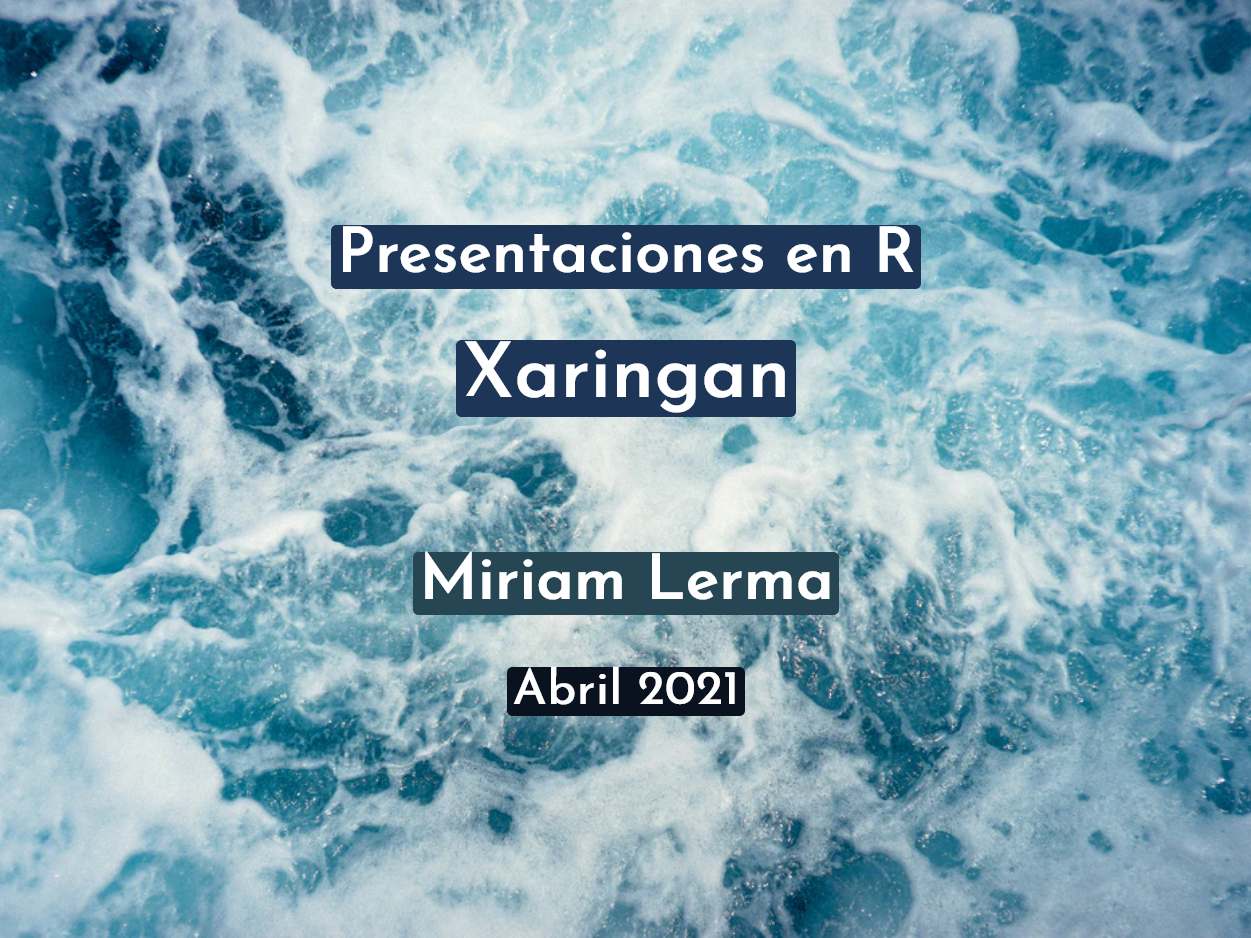
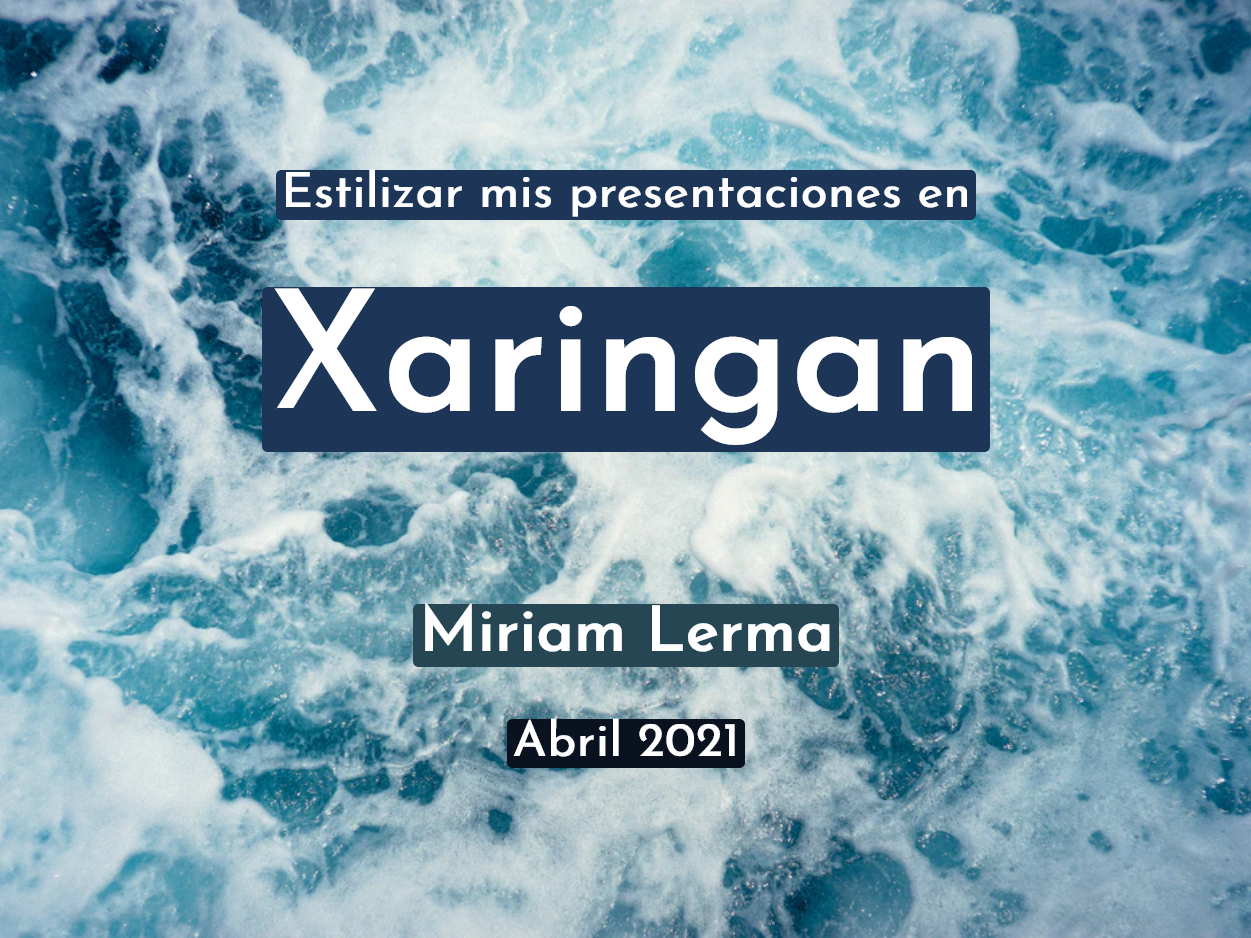
Portadas presentaciones

Changed region(s): [[0.1871, 0.1546, 0.8106, 0.4947], [0.3118, 0.5874, 0.6859, 0.8348]]

diff --git a/Prueba.html b/Prueba.html
@@ -1,0 +1,166 @@
+<!DOCTYPE html>
+<html lang="" xml:lang="">
+  <head>
+    <title>Pingüinos de Adelia</title>
+    <meta charset="utf-8" />
+    <meta name="author" content="Miriam Lerma" />
+    <script src="Prueba_files/header-attrs-2.6/header-attrs.js"></script>
+    <link href="Prueba_files/remark-css-0.0.1/default.css" rel="stylesheet" />
+    <link href="Prueba_files/remark-css-0.0.1/default-fonts.css" rel="stylesheet" />
+  </head>
+  <body>
+    <textarea id="source">
+class: center, middle, inverse, title-slide
+
+# Pingüinos de Adelia
+### Miriam Lerma
+### 22/4/2021
+
+---
+
+class: title-slide, center, middle, inverse
+background-image: url(https://images.unsplash.com/photo-1544817287-d26f7ed1e4d9?ixid=MXwxMjA3fDB8MHxwaG90by1wYWdlfHx8fGVufDB8fHw%3D&amp;ixlib=rb-1.2.1&amp;auto=format&amp;fit=crop&amp;w=750&amp;q=80)
+background-size: cover
+
+
+
+
+
+# ¿Son los machos más pesados que las hembras en pingüinos de Adelia?
+
+---
+class: center
+
+# Mi tabla
+
+
+
+
+&lt;table&gt;
+ &lt;thead&gt;
+  &lt;tr&gt;
+   &lt;th style="text-align:left;"&gt; sexo &lt;/th&gt;
+   &lt;th style="text-align:right;"&gt; peso &lt;/th&gt;
+  &lt;/tr&gt;
+ &lt;/thead&gt;
+&lt;tbody&gt;
+  &lt;tr&gt;
+   &lt;td style="text-align:left;"&gt; hembra &lt;/td&gt;
+   &lt;td style="text-align:right;"&gt; 3368.836 &lt;/td&gt;
+  &lt;/tr&gt;
+  &lt;tr&gt;
+   &lt;td style="text-align:left;"&gt; macho &lt;/td&gt;
+   &lt;td style="text-align:right;"&gt; 4043.493 &lt;/td&gt;
+  &lt;/tr&gt;
+&lt;/tbody&gt;
+&lt;/table&gt;
+
+---
+
+# Mi figura
+
+.center[
+![](Prueba_files/figure-html/unnamed-chunk-4-1.png)&lt;!-- --&gt;
+]
+    </textarea>
+<style data-target="print-only">@media screen {.remark-slide-container{display:block;}.remark-slide-scaler{box-shadow:none;}}</style>
+<script src="https://remarkjs.com/downloads/remark-latest.min.js"></script>
+<script>var slideshow = remark.create();
+if (window.HTMLWidgets) slideshow.on('afterShowSlide', function (slide) {
+  window.dispatchEvent(new Event('resize'));
+});
+(function(d) {
+  var s = d.createElement("style"), r = d.querySelector(".remark-slide-scaler");
+  if (!r) return;
+  s.type = "text/css"; s.innerHTML = "@page {size: " + r.style.width + " " + r.style.height +"; }";
+  d.head.appendChild(s);
+})(document);
+
+(function(d) {
+  var el = d.getElementsByClassName("remark-slides-area");
+  if (!el) return;
+  var slide, slides = slideshow.getSlides(), els = el[0].children;
+  for (var i = 1; i < slides.length; i++) {
+    slide = slides[i];
+    if (slide.properties.continued === "true" || slide.properties.count === "false") {
+      els[i - 1].className += ' has-continuation';
+    }
+  }
+  var s = d.createElement("style");
+  s.type = "text/css"; s.innerHTML = "@media print { .has-continuation { display: none; } }";
+  d.head.appendChild(s);
+})(document);
+// delete the temporary CSS (for displaying all slides initially) when the user
+// starts to view slides
+(function() {
+  var deleted = false;
+  slideshow.on('beforeShowSlide', function(slide) {
+    if (deleted) return;
+    var sheets = document.styleSheets, node;
+    for (var i = 0; i < sheets.length; i++) {
+      node = sheets[i].ownerNode;
+      if (node.dataset["target"] !== "print-only") continue;
+      node.parentNode.removeChild(node);
+    }
+    deleted = true;
+  });
+})();
+(function() {
+  "use strict"
+  // Replace <script> tags in slides area to make them executable
+  var scripts = document.querySelectorAll(
+    '.remark-slides-area .remark-slide-container script'
+  );
+  if (!scripts.length) return;
+  for (var i = 0; i < scripts.length; i++) {
+    var s = document.createElement('script');
+    var code = document.createTextNode(scripts[i].textContent);
+    s.appendChild(code);
+    var scriptAttrs = scripts[i].attributes;
+    for (var j = 0; j < scriptAttrs.length; j++) {
+      s.setAttribute(scriptAttrs[j].name, scriptAttrs[j].value);
+    }
+    scripts[i].parentElement.replaceChild(s, scripts[i]);
+  }
+})();
+(function() {
+  var links = document.getElementsByTagName('a');
+  for (var i = 0; i < links.length; i++) {
+    if (/^(https?:)?\/\//.test(links[i].getAttribute('href'))) {
+      links[i].target = '_blank';
+    }
+  }
+})();</script>
+
+<script>
+slideshow._releaseMath = function(el) {
+  var i, text, code, codes = el.getElementsByTagName('code');
+  for (i = 0; i < codes.length;) {
+    code = codes[i];
+    if (code.parentNode.tagName !== 'PRE' && code.childElementCount === 0) {
+      text = code.textContent;
+      if (/^\\\((.|\s)+\\\)$/.test(text) || /^\\\[(.|\s)+\\\]$/.test(text) ||
+          /^\$\$(.|\s)+\$\$$/.test(text) ||
+          /^\\begin\{([^}]+)\}(.|\s)+\\end\{[^}]+\}$/.test(text)) {
+        code.outerHTML = code.innerHTML;  // remove <code></code>
+        continue;
+      }
+    }
+    i++;
+  }
+};
+slideshow._releaseMath(document);
+</script>
+<!-- dynamically load mathjax for compatibility with self-contained -->
+<script>
+(function () {
+  var script = document.createElement('script');
+  script.type = 'text/javascript';
+  script.src  = 'https://mathjax.rstudio.com/latest/MathJax.js?config=TeX-MML-AM_CHTML';
+  if (location.protocol !== 'file:' && /^https?:/.test(script.src))
+    script.src  = script.src.replace(/^https?:/, '');
+  document.getElementsByTagName('head')[0].appendChild(script);
+})();
+</script>
+  </body>
+</html>

diff --git a/Prueba_files/remark-css-0.0.1/default.css b/Prueba_files/remark-css-0.0.1/default.css
@@ -1,0 +1,72 @@
+a, a > code {
+  color: rgb(249, 38, 114);
+  text-decoration: none;
+}
+.footnote {
+  position: absolute;
+  bottom: 3em;
+  padding-right: 4em;
+  font-size: 90%;
+}
+.remark-code-line-highlighted     { background-color: #ffff88; }
+
+.inverse {
+  background-color: #272822;
+  color: #d6d6d6;
+  text-shadow: 0 0 20px #333;
+}
+.inverse h1, .inverse h2, .inverse h3 {
+  color: #f3f3f3;
+}
+/* Two-column layout */
+.left-column {
+  color: #777;
+  width: 20%;
+  height: 92%;
+  float: left;
+}
+.left-column h2:last-of-type, .left-column h3:last-child {
+  color: #000;
+}
+.right-column {
+  width: 75%;
+  float: right;
+  padding-top: 1em;
+}
+.pull-left {
+  float: left;
+  width: 47%;
+}
+.pull-right {
+  float: right;
+  width: 47%;
+}
+.pull-right + * {
+  clear: both;
+}
+img, video, iframe {
+  max-width: 100%;
+}
+blockquote {
+  border-left: solid 5px lightgray;
+  padding-left: 1em;
+}
+.remark-slide table {
+  margin: auto;
+  border-top: 1px solid #666;
+  border-bottom: 1px solid #666;
+}
+.remark-slide table thead th { border-bottom: 1px solid #ddd; }
+th, td { padding: 5px; }
+.remark-slide thead, .remark-slide tfoot, .remark-slide tr:nth-child(even) { background: #eee }
+
+@page { margin: 0; }
+@media print {
+  .remark-slide-scaler {
+    width: 100% !important;
+    height: 100% !important;
+    transform: scale(1) !important;
+    top: 0 !important;
+    left: 0 !important;
+  }
+}

diff --git a/Prueba_files/remark-css-0.0.1/default-fonts.css b/Prueba_files/remark-css-0.0.1/default-fonts.css
@@ -1,0 +1,10 @@
+@import url(https://fonts.googleapis.com/css?family=Yanone+Kaffeesatz);
+@import url(https://fonts.googleapis.com/css?family=Droid+Serif:400,700,400italic);
+@import url(https://fonts.googleapis.com/css?family=Source+Code+Pro:400,700);
+
+body { font-family: 'Droid Serif', 'Palatino Linotype', 'Book Antiqua', Palatino, 'Microsoft YaHei', 'Songti SC', serif; }
+h1, h2, h3 {
+  font-family: 'Yanone Kaffeesatz';
+  font-weight: normal;
+}
+.remark-code, .remark-inline-code { font-family: 'Source Code Pro', 'Lucida Console', Monaco, monospace; }

diff --git a/Prueba_files/header-attrs-2.6/header-attrs.js b/Prueba_files/header-attrs-2.6/header-attrs.js
@@ -1,0 +1,12 @@
+// Pandoc 2.9 adds attributes on both header and div. We remove the former (to
+// be compatible with the behavior of Pandoc < 2.8).
+document.addEventListener('DOMContentLoaded', function(e) {
+  var hs = document.querySelectorAll("div.section[class*='level'] > :first-child");
+  var i, h, a;
+  for (i = 0; i < hs.length; i++) {
+    h = hs[i];
+    if (!/^h[1-6]$/i.test(h.tagName)) continue;  // it should be a header h1-h6
+    a = h.attributes;
+    while (a.length > 0) h.removeAttribute(a[0].name);
+  }
+});
